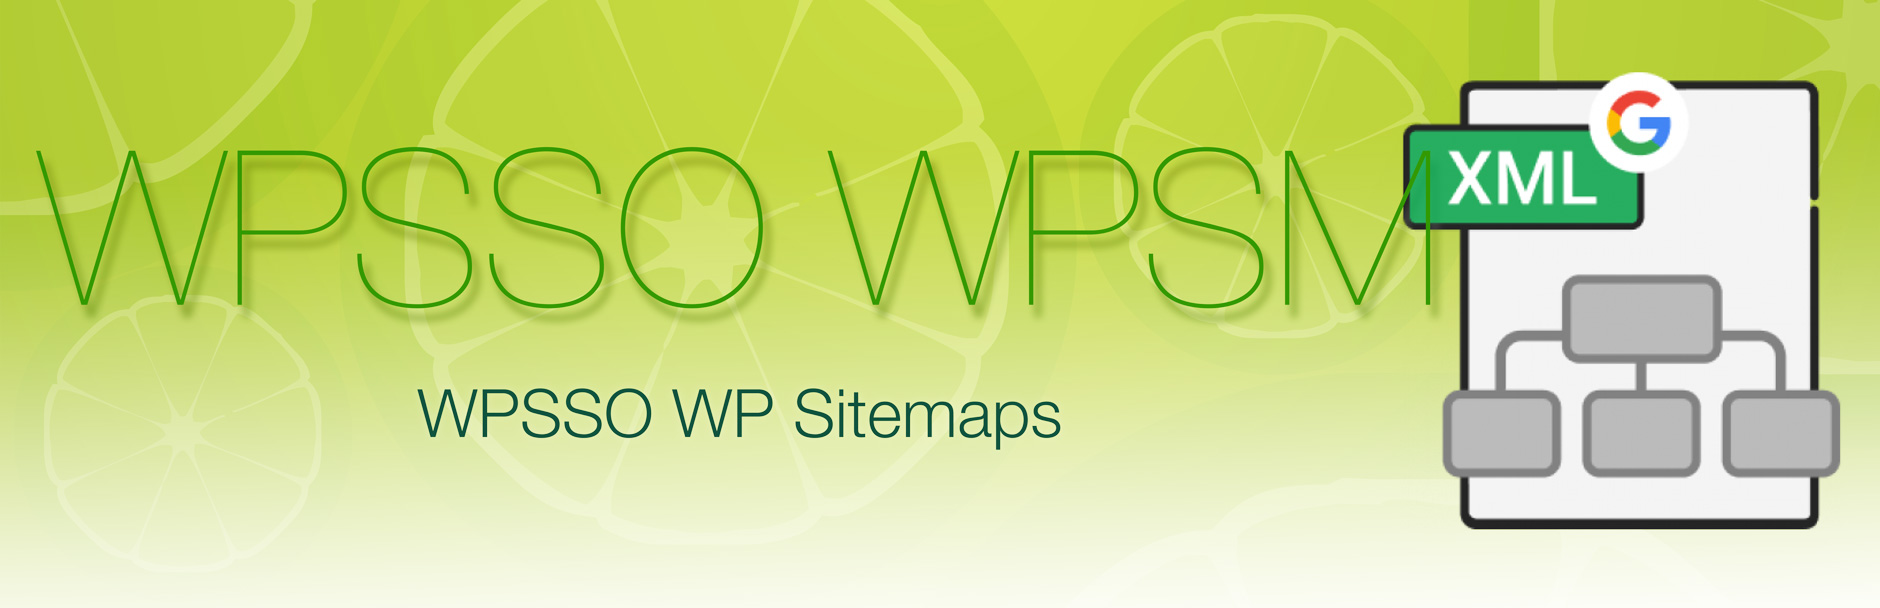
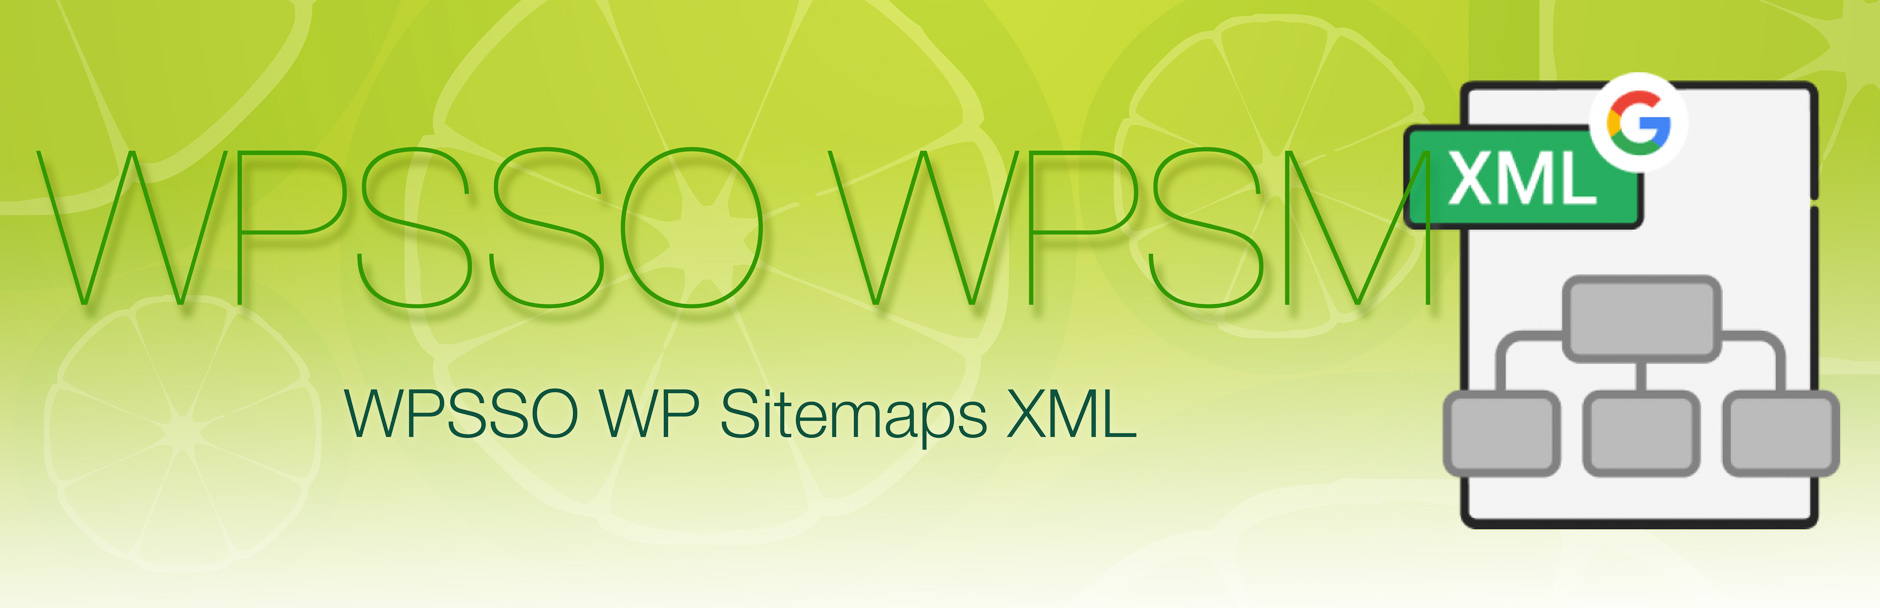
non-essential support files (documentation and assets)

Changed region(s): [[0.1851, 0.625, 0.617, 0.7188]]

diff --git a/index.html b/index.html
@@ -25,10 +25,10 @@
         </ul>
       </header>
       <section>
-<h1>WPSSO WP Sitemaps</h1>
+<h1>WPSSO WP Sitemaps XML</h1>
 
 <table>
-<tr><th align="right" valign="top" nowrap>Plugin Name</th><td>WPSSO WP Sitemaps</td></tr>
+<tr><th align="right" valign="top" nowrap>Plugin Name</th><td>WPSSO WP Sitemaps XML</td></tr>
 <tr><th align="right" valign="top" nowrap>Summary</th><td>Manage post and taxonomy types included in the WordPress sitemaps XML and exclude content marked as &quot;No Index&quot;.</td></tr>
 <tr><th align="right" valign="top" nowrap>Stable Version</th><td>1.0.0</td></tr>
 <tr><th align="right" valign="top" nowrap>Requires PHP</th><td>7.2 or newer</td></tr>
@@ -61,7 +61,7 @@
 
 <h3>WPSSO Core Required</h3>
 
-<p>WPSSO WP Sitemaps (WPSSO WPSM) is an add-on for the <a href="https://wordpress.org/plugins/wpsso/">WPSSO Core plugin</a>.</p>
+<p>WPSSO WP Sitemaps XML (WPSSO WPSM) is an add-on for the <a href="https://wordpress.org/plugins/wpsso/">WPSSO Core plugin</a>.</p>
 
 
 <h2>Installation</h2>
@@ -69,8 +69,8 @@
 <h3 class="top">Install and Uninstall</h3>
 
 <ul>
-<li><a href="https://wpsso.com/docs/plugins/wpsso-wp-sitemaps/installation/install-the-plugin/">Install the WPSSO WP Sitemaps add-on</a>.</li>
-<li><a href="https://wpsso.com/docs/plugins/wpsso-wp-sitemaps/installation/uninstall-the-plugin/">Uninstall the WPSSO WP Sitemaps add-on</a>.</li>
+<li><a href="https://wpsso.com/docs/plugins/wpsso-wp-sitemaps/installation/install-the-plugin/">Install the WPSSO WP Sitemaps XML add-on</a>.</li>
+<li><a href="https://wpsso.com/docs/plugins/wpsso-wp-sitemaps/installation/uninstall-the-plugin/">Uninstall the WPSSO WP Sitemaps XML add-on</a>.</li>
 </ul>
 
 
